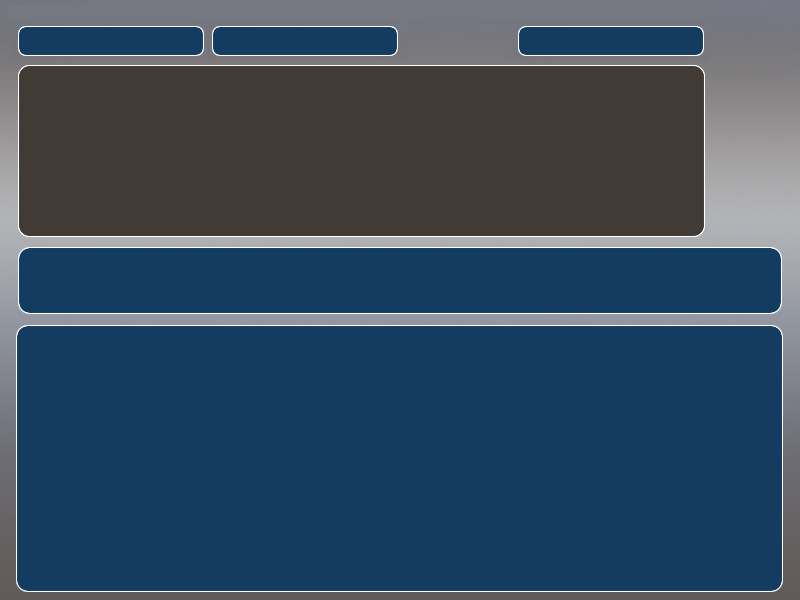
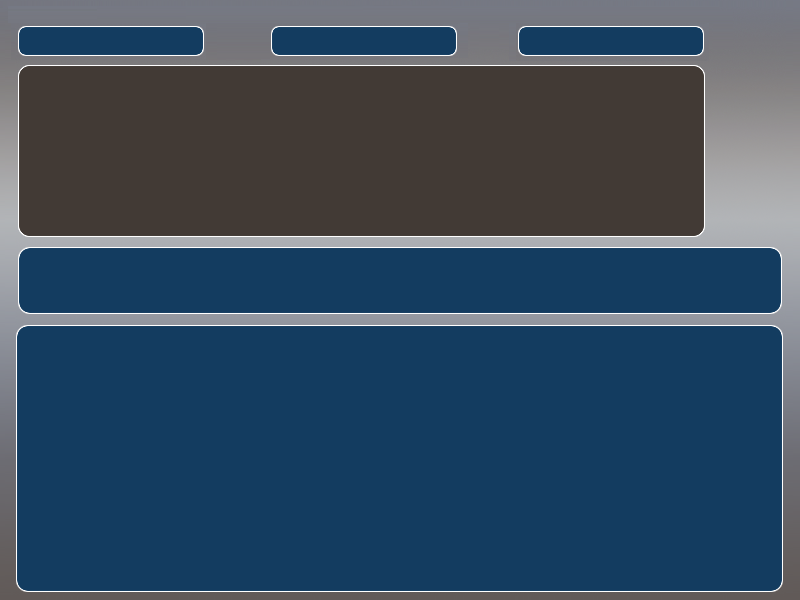
Order by last name then first name
space between first name and last name and player card.,

Changed region(s): [[0.4688, 0.03, 0.5938, 0.12], [0.25, 0.03, 0.3438, 0.12]]

diff --git a/UI/MCPFindPlayerForm.Designer.cs b/UI/MCPFindPlayerForm.Designer.cs
@@ -50,13 +50,6 @@ namespace GTI.Modules.PlayerCenter.UI
             this.m_selectPlayerButton = new GTI.Controls.ImageButton();
             this.m_cancelButton = new GTI.Controls.ImageButton();
             this.m_dgvResultsList = new System.Windows.Forms.DataGridView();
-            this.label2 = new System.Windows.Forms.Label();
-            this.m_txtbxLastName = new System.Windows.Forms.TextBox();
-            this.label3 = new System.Windows.Forms.Label();
-            this.m_txtbxFirstName = new System.Windows.Forms.TextBox();
-            this.label4 = new System.Windows.Forms.Label();
-            this.m_txtbxMagCard = new System.Windows.Forms.TextBox();
-            this.groupBox1 = new System.Windows.Forms.GroupBox();
             this.PlayerId = new System.Windows.Forms.DataGridViewTextBoxColumn();
             this.m_clmnhdrFirstName = new System.Windows.Forms.DataGridViewTextBoxColumn();
             this.m_clmnhdrMiddleName = new System.Windows.Forms.DataGridViewTextBoxColumn();
@@ -65,6 +58,13 @@ namespace GTI.Modules.PlayerCenter.UI
             this.m_clmnhdrPlayerIdentity = new System.Windows.Forms.DataGridViewTextBoxColumn();
             this.m_dgvclmnBirthDay = new System.Windows.Forms.DataGridViewTextBoxColumn();
             this.m_dgvclmnLastVisitDate = new System.Windows.Forms.DataGridViewTextBoxColumn();
+            this.label2 = new System.Windows.Forms.Label();
+            this.m_txtbxLastName = new System.Windows.Forms.TextBox();
+            this.label3 = new System.Windows.Forms.Label();
+            this.m_txtbxFirstName = new System.Windows.Forms.TextBox();
+            this.label4 = new System.Windows.Forms.Label();
+            this.m_txtbxMagCard = new System.Windows.Forms.TextBox();
+            this.groupBox1 = new System.Windows.Forms.GroupBox();
             ((System.ComponentModel.ISupportInitialize)(this.m_dgvResultsList)).BeginInit();
             this.groupBox1.SuspendLayout();
             this.SuspendLayout();
@@ -175,56 +175,6 @@ namespace GTI.Modules.PlayerCenter.UI
             this.m_dgvResultsList.KeyPress += new System.Windows.Forms.KeyPressEventHandler(this.m_dgvResultsList_KeyPress);
             this.m_dgvResultsList.KeyUp += new System.Windows.Forms.KeyEventHandler(this.m_dgvResultsList_KeyUp);
             // 
-            // label2
-            // 
-            this.label2.BackColor = System.Drawing.Color.Transparent;
-            resources.ApplyResources(this.label2, "label2");
-            this.label2.Name = "label2";
-            // 
-            // m_txtbxLastName
-            // 
-            resources.ApplyResources(this.m_txtbxLastName, "m_txtbxLastName");
-            this.m_txtbxLastName.Name = "m_txtbxLastName";
-            this.m_txtbxLastName.KeyPress += new System.Windows.Forms.KeyPressEventHandler(this.m_txtbx_KeyPressEnter);
-            // 
-            // label3
-            // 
-            this.label3.BackColor = System.Drawing.Color.Transparent;
-            resources.ApplyResources(this.label3, "label3");
-            this.label3.Name = "label3";
-            // 
-            // m_txtbxFirstName
-            // 
-            resources.ApplyResources(this.m_txtbxFirstName, "m_txtbxFirstName");
-            this.m_txtbxFirstName.Name = "m_txtbxFirstName";
-            this.m_txtbxFirstName.KeyPress += new System.Windows.Forms.KeyPressEventHandler(this.m_txtbx_KeyPressEnter);
-            // 
-            // label4
-            // 
-            this.label4.BackColor = System.Drawing.Color.Transparent;
-            resources.ApplyResources(this.label4, "label4");
-            this.label4.Name = "label4";
-            // 
-            // m_txtbxMagCard
-            // 
-            resources.ApplyResources(this.m_txtbxMagCard, "m_txtbxMagCard");
-            this.m_txtbxMagCard.Name = "m_txtbxMagCard";
-            this.m_txtbxMagCard.KeyPress += new System.Windows.Forms.KeyPressEventHandler(this.m_txtbx_KeyPressEnter);
-            // 
-            // groupBox1
-            // 
-            this.groupBox1.BackColor = System.Drawing.Color.Transparent;
-            this.groupBox1.Controls.Add(this.label2);
-            this.groupBox1.Controls.Add(this.m_txtbxMagCard);
-            this.groupBox1.Controls.Add(this.m_searchButton);
-            this.groupBox1.Controls.Add(this.m_txtbxLastName);
-            this.groupBox1.Controls.Add(this.label4);
-            this.groupBox1.Controls.Add(this.label3);
-            this.groupBox1.Controls.Add(this.m_txtbxFirstName);
-            resources.ApplyResources(this.groupBox1, "groupBox1");
-            this.groupBox1.Name = "groupBox1";
-            this.groupBox1.TabStop = false;
-            // 
             // PlayerId
             // 
             this.PlayerId.AutoSizeMode = System.Windows.Forms.DataGridViewAutoSizeColumnMode.None;
@@ -304,6 +254,56 @@ namespace GTI.Modules.PlayerCenter.UI
             this.m_dgvclmnLastVisitDate.Name = "m_dgvclmnLastVisitDate";
             this.m_dgvclmnLastVisitDate.ReadOnly = true;
             this.m_dgvclmnLastVisitDate.SortMode = System.Windows.Forms.DataGridViewColumnSortMode.Programmatic;
+            // 
+            // label2
+            // 
+            this.label2.BackColor = System.Drawing.Color.Transparent;
+            resources.ApplyResources(this.label2, "label2");
+            this.label2.Name = "label2";
+            // 
+            // m_txtbxLastName
+            // 
+            resources.ApplyResources(this.m_txtbxLastName, "m_txtbxLastName");
+            this.m_txtbxLastName.Name = "m_txtbxLastName";
+            this.m_txtbxLastName.KeyPress += new System.Windows.Forms.KeyPressEventHandler(this.m_txtbx_KeyPressEnter);
+            // 
+            // label3
+            // 
+            this.label3.BackColor = System.Drawing.Color.Transparent;
+            resources.ApplyResources(this.label3, "label3");
+            this.label3.Name = "label3";
+            // 
+            // m_txtbxFirstName
+            // 
+            resources.ApplyResources(this.m_txtbxFirstName, "m_txtbxFirstName");
+            this.m_txtbxFirstName.Name = "m_txtbxFirstName";
+            this.m_txtbxFirstName.KeyPress += new System.Windows.Forms.KeyPressEventHandler(this.m_txtbx_KeyPressEnter);
+            // 
+            // label4
+            // 
+            this.label4.BackColor = System.Drawing.Color.Transparent;
+            resources.ApplyResources(this.label4, "label4");
+            this.label4.Name = "label4";
+            // 
+            // m_txtbxMagCard
+            // 
+            resources.ApplyResources(this.m_txtbxMagCard, "m_txtbxMagCard");
+            this.m_txtbxMagCard.Name = "m_txtbxMagCard";
+            this.m_txtbxMagCard.KeyPress += new System.Windows.Forms.KeyPressEventHandler(this.m_txtbx_KeyPressEnter);
+            // 
+            // groupBox1
+            // 
+            this.groupBox1.BackColor = System.Drawing.Color.Transparent;
+            this.groupBox1.Controls.Add(this.label2);
+            this.groupBox1.Controls.Add(this.m_txtbxMagCard);
+            this.groupBox1.Controls.Add(this.m_searchButton);
+            this.groupBox1.Controls.Add(this.m_txtbxLastName);
+            this.groupBox1.Controls.Add(this.label4);
+            this.groupBox1.Controls.Add(this.label3);
+            this.groupBox1.Controls.Add(this.m_txtbxFirstName);
+            resources.ApplyResources(this.groupBox1, "groupBox1");
+            this.groupBox1.Name = "groupBox1";
+            this.groupBox1.TabStop = false;
             // 
             // MCPFindPlayerForm
             // 

diff --git a/UI/MCPFindPlayerForm.cs b/UI/MCPFindPlayerForm.cs
@@ -74,7 +74,7 @@ namespace GTI.Modules.PlayerCenter.UI
         {
             m_sortColumn = 0;
             m_sortInfo = new bool[8]{true, false, false, false, false, false, false, false};
-            m_playerList = players.OrderBy(i => i.FirstName).ThenBy(i => i.LastName).ToArray();
+            m_playerList = players.OrderBy(i => i.LastName).ThenBy(i => i.FirstName).ToArray();
             BindingSource bs = new BindingSource(m_playerList, "");
             m_dgvResultsList.DataSource = null;
             m_dgvResultsList.Rows.Clear();
